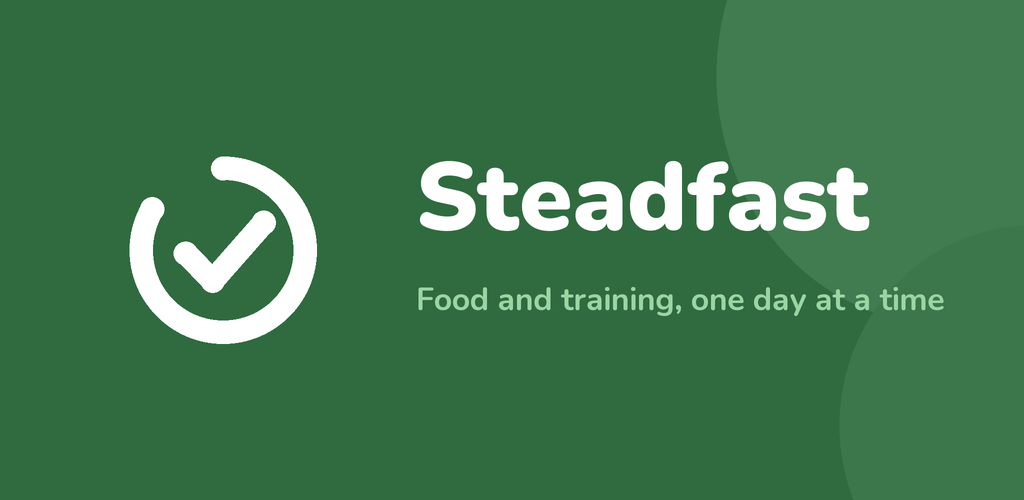
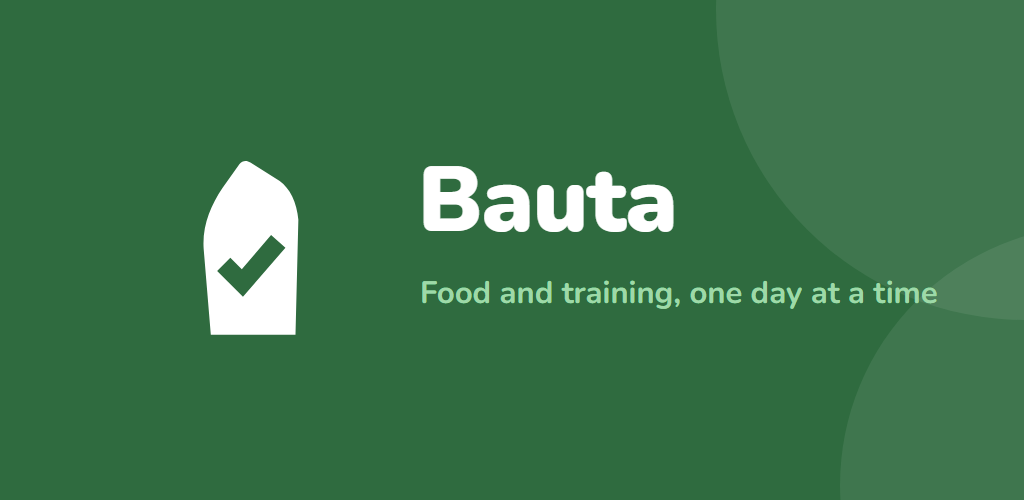
Bauta 1.0 (26): Steadfast heter nu Bauta – ny ikon, nya texter och hur man flyttar sin data

Changed region(s): [[0.4062, 0.3, 0.8438, 0.48], [0.125, 0.3, 0.3125, 0.69], [0.4062, 0.54, 0.9375, 0.63]]

diff --git a/index.html b/index.html
@@ -3,24 +3,24 @@
 <head>
 <meta charset="utf-8">
 <meta name="viewport" content="width=device-width, initial-scale=1">
-<title>Steadfast – gratis app för kost och träning, utan konto | Android</title>
+<title>Bauta – gratis app för kost och träning, utan konto | Android</title>
 <meta name="description" content="Gratis Android-app för att planera måltider och logga träning. Följ din egen plan, en dag i taget. All data stannar på din telefon – inget konto, ingen reklam, ingen spårning.">
-<link rel="canonical" href="https://kakelakel.github.io/steadfast-app/">
+<link rel="canonical" href="https://kakelakel.github.io/bauta-app/">
 <link rel="icon" href="bilder/ikon.png">
 <meta name="theme-color" content="#2E6B3E">
 <meta property="og:type" content="website">
-<meta property="og:site_name" content="Steadfast">
-<meta property="og:title" content="Steadfast – kost och träning, en dag i taget">
+<meta property="og:site_name" content="Bauta">
+<meta property="og:title" content="Bauta – kost och träning, en dag i taget">
 <meta property="og:description" content="Gratis Android-app för din egen plan för mat och träning. Inget konto, ingen reklam, ingen spårning – allt stannar i telefonen.">
-<meta property="og:url" content="https://kakelakel.github.io/steadfast-app/">
-<meta property="og:image" content="https://kakelakel.github.io/steadfast-app/bilder/omslag.png">
+<meta property="og:url" content="https://kakelakel.github.io/bauta-app/">
+<meta property="og:image" content="https://kakelakel.github.io/bauta-app/bilder/omslag.png">
 <meta property="og:image:width" content="1024">
 <meta property="og:image:height" content="500">
 <meta property="og:locale" content="sv_SE">
 <meta property="og:locale:alternate" content="en_US">
 <meta name="twitter:card" content="summary_large_image">
 <script type="application/ld+json">
-{"@context":"https://schema.org","@type":"MobileApplication","name":"Steadfast","operatingSystem":"Android 8.0+","applicationCategory":"HealthApplication","inLanguage":["sv","en"],"offers":{"@type":"Offer","price":"0","priceCurrency":"SEK"},"url":"https://kakelakel.github.io/steadfast-app/","downloadUrl":"https://github.com/kakelakel/steadfast-app/releases/latest","image":"https://kakelakel.github.io/steadfast-app/bilder/ikon.png","description":"Följ din egen plan för kost och träning, en dag i taget. Inget konto, ingen reklam, ingen spårning."}
+{"@context":"https://schema.org","@type":"MobileApplication","name":"Bauta","operatingSystem":"Android 8.0+","applicationCategory":"HealthApplication","inLanguage":["sv","en"],"offers":{"@type":"Offer","price":"0","priceCurrency":"SEK"},"url":"https://kakelakel.github.io/bauta-app/","downloadUrl":"https://github.com/kakelakel/bauta-app/releases/latest","image":"https://kakelakel.github.io/bauta-app/bilder/ikon.png","description":"Följ din egen plan för kost och träning, en dag i taget. Inget konto, ingen reklam, ingen spårning."}
 </script>
 <link rel="preload" href="fonts/atkinson-hyperlegible-latin-700-normal.woff2" as="font" type="font/woff2" crossorigin>
 <style>
@@ -150,7 +150,7 @@
 
 <div class="wrap">
 <header class="top">
-  <a class="brand" href="./"><img src="bilder/ikon.png" alt="">Steadfast</a>
+  <a class="brand" href="./"><img src="bilder/ikon.png" alt="">Bauta</a>
   <nav><a href="#en" hreflang="en">English</a></nav>
 </header>
 
@@ -159,12 +159,12 @@
   <div class="hero">
     <div>
       <h1>Din plan.<br>En dag i taget.</h1>
-      <p class="lead">Steadfast hjälper dig att hålla fast vid måltider, rutiner och träning du själv har valt. Ingen diet, och ingen som säger vad du ska äta.</p>
+      <p class="lead">Bauta hjälper dig att hålla fast vid måltider, rutiner och träning du själv har valt. Ingen diet, och ingen som säger vad du ska äta.</p>
       <div class="cta">
-        <a class="button" href="https://github.com/kakelakel/steadfast-app/releases/latest/download/steadfast.apk"><svg aria-hidden="true"><use href="#down"/></svg>Ladda ner för Android</a>
+        <a class="button" href="https://github.com/kakelakel/bauta-app/releases/latest/download/bauta.apk"><svg aria-hidden="true"><use href="#down"/></svg>Ladda ner för Android</a>
         <a href="#ladda-ner">Så installerar du</a>
       </div>
-      <p class="meta" data-release="sv">Version 1.0 (25) · för Android 8 och senare · 5,3 MB. Gratis.</p>
+      <p class="meta" data-release="sv">Version 1.0 (26) · för Android 8 och senare · 9,7 MB. Gratis.</p>
 
       <div class="week" aria-label="Exempel på en vecka i appen">
         <ol class="days">
@@ -211,9 +211,9 @@
   <h2 id="ladda-ner">Ladda ner</h2>
   <div class="get">
     <div class="panel primary">
-      <p style="margin:0 0 6px"><a class="button" href="https://github.com/kakelakel/steadfast-app/releases/latest/download/steadfast.apk"><svg aria-hidden="true"><use href="#down"/></svg>Ladda ner Steadfast</a></p>
-      <p class="meta" data-release="sv">Version 1.0 (25) · för Android 8 och senare · 5,3 MB.</p>
-      <p class="meta"><a href="changelog/">Vad är nytt? Se versionshistoriken</a></p>
+      <p style="margin:0 0 6px"><a class="button" href="https://github.com/kakelakel/bauta-app/releases/latest/download/bauta.apk"><svg aria-hidden="true"><use href="#down"/></svg>Ladda ner Bauta</a></p>
+      <p class="meta" data-release="sv">Version 1.0 (26) · för Android 8 och senare · 9,7 MB.</p>
+      <p class="meta"><a href="changelog/">Vad är nytt? Se versionshistoriken</a> · <strong>Hade du Steadfast?</strong> Appen heter nu Bauta – <a href="changelog/">så flyttar du din data</a>.</p>
       <p class="muted" data-downloads="sv" hidden></p>
       <h3 style="margin-top:22px">Så installerar du</h3>
       <ol class="steps">
@@ -224,13 +224,13 @@
         <li>Ny version: ladda ner och installera på samma sätt. Din data ligger kvar.</li>
       </ol>
       <h3 style="margin-top:22px">Få nya versioner automatiskt</h3>
-      <p style="margin:0">Telefonen säger inte till när det kommer en ny version, eftersom Steadfast inte finns i någon appbutik. Med gratisappen <a href="https://github.com/ImranR98/Obtainium">Obtainium</a> får du en notis och uppdaterar med ett tryck: tryck <strong>Lägg till app</strong>, klistra in <code>https://github.com/kakelakel/steadfast-app</code> och tryck <strong>Lägg till</strong>.</p>
+      <p style="margin:0">Telefonen säger inte till när det kommer en ny version, eftersom Bauta inte finns i någon appbutik. Med gratisappen <a href="https://github.com/ImranR98/Obtainium">Obtainium</a> får du en notis och uppdaterar med ett tryck: tryck <strong>Lägg till app</strong>, klistra in <code>https://github.com/kakelakel/bauta-app</code> och tryck <strong>Lägg till</strong>.</p>
     </div>
     <div class="panel" id="sakerhet">
       <h3>Är filen säker?</h3>
-      <p style="margin:0">Det är klokt att vara försiktig med appar utanför Google Play. Så här kan du kontrollera Steadfast:</p>
+      <p style="margin:0">Det är klokt att vara försiktig med appar utanför Google Play. Så här kan du kontrollera Bauta:</p>
       <ul>
-        <li><strong>Ladda bara ner härifrån</strong> eller från <a href="https://github.com/kakelakel/steadfast-app/releases">Releases på GitHub</a>. Steadfast finns inte på andra webbplatser.</li>
+        <li><strong>Ladda bara ner härifrån</strong> eller från <a href="https://github.com/kakelakel/bauta-app/releases">Releases på GitHub</a>. Bauta finns inte på andra webbplatser.</li>
         <li><strong>Kontrollsumma:</strong> varje version har sin SHA-256-summa i versionens text under Releases.</li>
         <li><strong>Signatur:</strong> alla versioner är signerade med samma nyckel. Android vägrar installera en uppdatering med en annan signatur, så en förfalskad fil kan inte ersätta din app. Nyckelns fingeravtryck (SHA-256):
           <code class="fp">10:46:A0:6B:B2:C1:25:EF:F9:24:18:29:5E:C4:73:23:24:24:25:C0:E1:B9:94:86:23:08:D0:B0:FE:85:DF:66</code></li>
@@ -250,13 +250,13 @@
   </div>
 
   <h2>Din integritet</h2>
-  <p class="measure">Allt du skriver in i Steadfast sparas bara på din telefon. Appen har ingen server och skickar aldrig din data någonstans. Läs mer i <a href="privacy/">integritetspolicyn</a>.</p>
-  <p class="measure muted">Steadfast ger inga medicinska råd och ersätter inte vård. Appen är gjord för vuxna, 18 år och äldre.</p>
+  <p class="measure">Allt du skriver in i Bauta sparas bara på din telefon. Appen har ingen server och skickar aldrig din data någonstans. Läs mer i <a href="privacy/">integritetspolicyn</a>.</p>
+  <p class="measure muted">Bauta ger inga medicinska råd och ersätter inte vård. Appen är gjord för vuxna, 18 år och äldre.</p>
 </section>
 
 <section lang="en" id="en">
-  <h2>Steadfast in English</h2>
-  <p class="measure" style="font-size:20px">Steadfast helps you stick to a plan you have chosen yourself – for meals, routines and training. Not a diet, and not an app that tells you what to eat. Available in Swedish and English.</p>
+  <h2>Bauta in English</h2>
+  <p class="measure" style="font-size:20px">Bauta helps you stick to a plan you have chosen yourself – for meals, routines and training. Not a diet, and not an app that tells you what to eat. Available in Swedish and English.</p>
   <p class="measure">Plan meals and tasks, check them off, and follow workouts set by set. Streaks follow one rule: never miss twice in a row. Track water, steps, blood pressure, weight and measurements. Widgets, twelve themes, and a web mode for planning from a computer on your own Wi-Fi.</p>
   <ul class="promises" aria-label="Promises">
     <li><svg aria-hidden="true"><use href="#tick"/></svg>All data stays on your phone</li>
@@ -273,18 +273,18 @@
   </ul>
   <div class="get">
     <div class="panel primary">
-      <p style="margin:0 0 6px"><a class="button" href="https://github.com/kakelakel/steadfast-app/releases/latest/download/steadfast.apk"><svg aria-hidden="true"><use href="#down"/></svg>Download Steadfast</a></p>
-      <p class="meta" data-release="en">Version 1.0 (25) · for Android 8 and later · 5.3 MB.</p>
-      <p class="meta"><a href="changelog/#en">What's new? See the changelog</a></p>
+      <p style="margin:0 0 6px"><a class="button" href="https://github.com/kakelakel/bauta-app/releases/latest/download/bauta.apk"><svg aria-hidden="true"><use href="#down"/></svg>Download Bauta</a></p>
+      <p class="meta" data-release="en">Version 1.0 (26) · for Android 8 and later · 9.7 MB.</p>
+      <p class="meta"><a href="changelog/#en">What's new? See the changelog</a> · <strong>Had Steadfast?</strong> The app is now called Bauta – <a href="changelog/#en">how to move your data</a>.</p>
       <p class="muted" data-downloads="en" hidden></p>
       <p>The app is downloaded as a file directly from here, not from Google Play. When you open it, allow your browser to install apps, then tap Install. Your phone may warn about an unknown app because it doesn't come from Google Play. Updates are installed the same way, and your data is kept.</p>
       <h3 style="margin-top:22px">Get updates automatically</h3>
-      <p style="margin:0">With the free app <a href="https://github.com/ImranR98/Obtainium">Obtainium</a> you get a notification and can update with one tap: tap <strong>Add App</strong>, paste <code>https://github.com/kakelakel/steadfast-app</code> and tap <strong>Add</strong>.</p>
+      <p style="margin:0">With the free app <a href="https://github.com/ImranR98/Obtainium">Obtainium</a> you get a notification and can update with one tap: tap <strong>Add App</strong>, paste <code>https://github.com/kakelakel/bauta-app</code> and tap <strong>Add</strong>.</p>
     </div>
     <div class="panel" id="security">
       <h3>Is the file safe?</h3>
       <ul>
-        <li><strong>Only download from here</strong> or from <a href="https://github.com/kakelakel/steadfast-app/releases">Releases on GitHub</a>. Steadfast is not published anywhere else.</li>
+        <li><strong>Only download from here</strong> or from <a href="https://github.com/kakelakel/bauta-app/releases">Releases on GitHub</a>. Bauta is not published anywhere else.</li>
         <li><strong>Checksum:</strong> each version lists its SHA-256 in its release notes.</li>
         <li><strong>Signature:</strong> every version is signed with the same key, and Android refuses an update with a different signature, so a tampered file can't replace your app. Signing certificate fingerprint (SHA-256):
           <code class="fp">10:46:A0:6B:B2:C1:25:EF:F9:24:18:29:5E:C4:73:23:24:24:25:C0:E1:B9:94:86:23:08:D0:B0:FE:85:DF:66</code></li>
@@ -302,13 +302,13 @@
       </details>
     </div>
   </div>
-  <p class="measure muted" style="margin-top:28px">Everything you enter stays on your phone; the app has no server and never sends your data anywhere. Read the <a href="privacy/#en">privacy policy</a>. Steadfast gives no medical advice and does not replace healthcare. Made for adults aged 18 and over.</p>
+  <p class="measure muted" style="margin-top:28px">Everything you enter stays on your phone; the app has no server and never sends your data anywhere. Read the <a href="privacy/#en">privacy policy</a>. Bauta gives no medical advice and does not replace healthcare. Made for adults aged 18 and over.</p>
 </section>
 </main>
 
 <footer>
-  <p>Kontakt / contact: <a href="mailto:steadfasttheapp@gmail.com">steadfasttheapp@gmail.com</a> · <a href="privacy/">Integritetspolicy / Privacy policy</a> · <a href="changelog/">Nyheter / Changelog</a> · <a href="https://github.com/kakelakel/steadfast-app/blob/main/LICENSE">Villkor / Terms</a></p>
-  <p>© 2026 skaparen av Steadfast. Gratis för privat bruk – får inte spridas vidare, ändras eller säljas utan tillstånd. / Free for personal use – may not be redistributed, modified or sold without permission.</p>
+  <p>Kontakt / contact: <a href="mailto:steadfasttheapp@gmail.com">steadfasttheapp@gmail.com</a> · <a href="privacy/">Integritetspolicy / Privacy policy</a> · <a href="changelog/">Nyheter / Changelog</a> · <a href="https://github.com/kakelakel/bauta-app/blob/main/LICENSE">Villkor / Terms</a></p>
+  <p>© 2026 skaparen av Bauta. Gratis för privat bruk – får inte spridas vidare, ändras eller säljas utan tillstånd. / Free for personal use – may not be redistributed, modified or sold without permission.</p>
   <p>Sidan använder inga kakor och ingen spårning. Senaste versionen hämtas från GitHub, som också är värd för sidan. / This page uses no cookies and no tracking. The latest version info is read from GitHub, which also hosts this page.</p>
 </footer>
 </div>
@@ -319,7 +319,7 @@
    Antalet visas först när det når VISA_FRAN, så att sidan inte skyltar med ett litet tal. */
 (function () {
   var VISA_FRAN = 100;
-  var API = "https://api.github.com/repos/kakelakel/steadfast-app/releases?per_page=100";
+  var API = "https://api.github.com/repos/kakelakel/bauta-app/releases?per_page=100";
   if (!window.fetch) return;
   fetch(API, { headers: { "Accept": "application/vnd.github+json" } })
     .then(function (r) { if (!r.ok) throw new Error(r.status); return r.json(); })
@@ -328,10 +328,10 @@
       if (!list.length) return;
       var total = 0, latest = list[0], apk = null;
       list.forEach(function (r) {
-        (r.assets || []).forEach(function (a) { if (a.name === "steadfast.apk") total += a.download_count; });
+        (r.assets || []).forEach(function (a) { if (a.name === "bauta.apk") total += a.download_count; });
       });
-      (latest.assets || []).forEach(function (a) { if (a.name === "steadfast.apk") apk = a; });
-      var m = /^Steadfast\s+(.+)$/.exec(latest.name || "");
+      (latest.assets || []).forEach(function (a) { if (a.name === "bauta.apk") apk = a; });
+      var m = /^Bauta\s+(.+)$/.exec(latest.name || "");
       var version = m ? m[1] : (latest.tag_name || "").replace(/^v/, "");
       var d = new Date(latest.published_at);
       var mb = apk ? apk.size / 1048576 : null;

diff --git a/changelog/index.html b/changelog/index.html
@@ -3,9 +3,9 @@
 <head>
 <meta charset="utf-8">
 <meta name="viewport" content="width=device-width, initial-scale=1">
-<title>Steadfast – nyheter / changelog</title>
-<meta name="description" content="Vad som är nytt i varje version av Steadfast. / What is new in each version of Steadfast.">
-<link rel="canonical" href="https://kakelakel.github.io/steadfast-app/changelog/">
+<title>Bauta – nyheter / changelog</title>
+<meta name="description" content="Vad som är nytt i varje version av Bauta. / What is new in each version of Bauta.">
+<link rel="canonical" href="https://kakelakel.github.io/bauta-app/changelog/">
 <link rel="icon" href="../bilder/ikon.png">
 <style>
   :root { --bg:#F4F6F1; --fg:#17201A; --muted:#55615A; --accent:#2F6B3F; --line:#DCE2D9; --soft:#E2EEE3; }
@@ -24,14 +24,22 @@
 </head>
 <body>
 <main>
-<nav><a href="../">← Steadfast</a><a href="#sv">Svenska</a><a href="#en">English</a></nav>
+<nav><a href="../">← Bauta</a><a href="#sv">Svenska</a><a href="#en">English</a></nav>
 
 <!-- Ny version: lägg den överst i båda språken, med datum och vad som är nytt (B250). -->
 <section id="sv" lang="sv">
-<h1>Nyheter i Steadfast</h1>
+<h1>Nyheter i Bauta</h1>
 <p class="meta">Vad som är nytt i varje version. Ladda ner den senaste på <a href="../">startsidan</a>; en ny version installeras ovanpå den gamla och din data ligger kvar.</p>
 
-<h2>Version 1.0 (25) <span class="tag">Senaste</span></h2>
+<h2>Version 1.0 (26) <span class="tag">Senaste</span></h2>
+<p class="meta">15 oktober 2026</p>
+<ul>
+<li><strong>Steadfast heter nu Bauta.</strong> Det fanns redan en annan träningsapp med namnet Steadfast. En bautasten står stadigt i tusen år – precis som en plan man håller fast vid.</li>
+<li>Ny ikon: en bautasten med en inhuggen bock.</li>
+<li><strong>Bauta installeras som en ny app.</strong> Flytta din data så här: öppna Steadfast → Inställningar → Säkerhetskopiering → Exportera. Installera Bauta, välj Hoppa över i startguiden, och gå till Inställningar → Säkerhetskopiering → Importera och välj filen. Kontrollera att allt finns med, och avinstallera sedan Steadfast. Allt sker i telefonen.</li>
+</ul>
+
+<h2>Version 1.0 (25) </h2>
 <p class="meta">15 oktober 2026</p>
 <ul>
 <li><strong>61 nya övningar</strong>, 182 totalt: calisthenics med lättare och svårare varianter, förebyggande övningar för axlar, knän och höfter, och rörlighet.</li>
@@ -64,10 +72,18 @@
 <hr>
 
 <section id="en" lang="en">
-<h1>What's new in Steadfast</h1>
+<h1>What's new in Bauta</h1>
 <p class="meta">What is new in each version. Download the latest on the <a href="../#en">home page</a>; a new version installs on top of the old one and your data stays.</p>
 
-<h2>Version 1.0 (25) <span class="tag">Latest</span></h2>
+<h2>Version 1.0 (26) <span class="tag">Latest</span></h2>
+<p class="meta">15 October 2026</p>
+<ul>
+<li><strong>Steadfast is now called Bauta.</strong> Another fitness app already used the name Steadfast. A bauta stone stands firm for a thousand years – just like a plan you stick to.</li>
+<li>New icon: a standing stone with a carved check mark.</li>
+<li><strong>Bauta installs as a new app.</strong> Move your data like this: open Steadfast → Settings → Backup → Export. Install Bauta, choose Skip in the setup guide, then go to Settings → Backup → Import and pick the file. Check that everything is there, then uninstall Steadfast. Everything happens on your phone.</li>
+</ul>
+
+<h2>Version 1.0 (25) </h2>
 <p class="meta">15 October 2026</p>
 <ul>
 <li><strong>61 new exercises</strong>, 182 in total: calisthenics with easier and harder variations, preventive exercises for shoulders, knees and hips, and mobility.</li>

diff --git a/privacy/index.html b/privacy/index.html
@@ -3,7 +3,7 @@
 <head>
 <meta charset="utf-8">
 <meta name="viewport" content="width=device-width, initial-scale=1">
-<title>Steadfast – integritetspolicy / privacy policy</title>
+<title>Bauta – integritetspolicy / privacy policy</title>
 <style>
   :root { --bg:#F4F6F1; --fg:#17201A; --muted:#55615A; --accent:#2F6B3F; --line:#DCE2D9; }
   @media (prefers-color-scheme: dark) { :root { --bg:#0F1411; --fg:#E4EAE3; --muted:#9DAAA1; --accent:#9CD5A4; --line:#2A352E; } }
@@ -19,11 +19,11 @@
 <nav><a href="#sv">Svenska</a><a href="#en">English</a></nav>
 
 <section id="sv" lang="sv">
-<h1>Integritetspolicy för Steadfast</h1>
+<h1>Integritetspolicy för Bauta</h1>
 <p class="meta">Gäller från 10 oktober 2026.</p>
 
 <h2>Kort sagt</h2>
-<p>Steadfast samlar inte in några uppgifter om dig. All data som du skriver in i appen – planering, avbockningar, mått, vikt, bilder, träningspass och inställningar – sparas bara på din egen telefon. Appen har ingen server, inget konto, ingen reklam och ingen analys- eller spårningsteknik.</p>
+<p>Bauta samlar inte in några uppgifter om dig. All data som du skriver in i appen – planering, avbockningar, mått, vikt, bilder, träningspass och inställningar – sparas bara på din egen telefon. Appen har ingen server, inget konto, ingen reklam och ingen analys- eller spårningsteknik.</p>
 
 <h2>Vad som sparas och var</h2>
 <ul>
@@ -61,7 +61,7 @@
 <p>Eftersom all data bara finns på din telefon tar du bort den genom att avinstallera appen eller rensa appens data i telefonens inställningar. Det finns ingen kopia hos oss.</p>
 
 <h2>Ålder</h2>
-<p>Steadfast är gjord för personer som är 18 år eller äldre.</p>
+<p>Bauta är gjord för personer som är 18 år eller äldre.</p>
 
 <h2>Hälsa</h2>
 <p>Appen ger inga medicinska råd och ersätter inte vård. Uppgifter om kost och vikt används bara i appen för att visa din egen plan och dina framsteg.</p>
@@ -76,11 +76,11 @@
 <hr>
 
 <section id="en" lang="en">
-<h1>Privacy policy for Steadfast</h1>
+<h1>Privacy policy for Bauta</h1>
 <p class="meta">Effective from 10 October 2026.</p>
 
 <h2>In short</h2>
-<p>Steadfast does not collect any data about you. Everything you enter in the app – planning, check-offs, measurements, weight, photos, workouts and settings – is stored only on your own phone. The app has no server, no account, no ads and no analytics or tracking technology.</p>
+<p>Bauta does not collect any data about you. Everything you enter in the app – planning, check-offs, measurements, weight, photos, workouts and settings – is stored only on your own phone. The app has no server, no account, no ads and no analytics or tracking technology.</p>
 
 <h2>What is stored and where</h2>
 <ul>
@@ -118,7 +118,7 @@
 <p>Since all data exists only on your phone, you delete it by uninstalling the app or clearing the app's data in the phone's settings. There is no copy with us.</p>
 
 <h2>Age</h2>
-<p>Steadfast is made for people aged 18 or older.</p>
+<p>Bauta is made for people aged 18 or older.</p>
 
 <h2>Health</h2>
 <p>The app gives no medical advice and does not replace healthcare. Information about food and weight is used only in the app to show your own plan and progress.</p>

diff --git a/README.md b/README.md
@@ -1,13 +1,13 @@
-<p align="center"><img src="bilder/ikon.png" width="96" alt="Steadfast"></p>
+<p align="center"><img src="bilder/ikon.png" width="96" alt="Bauta"></p>
 
-<h1 align="center">Steadfast</h1>
+<h1 align="center">Bauta</h1>
 <p align="center"><b>Kost och träning, en dag i taget · Food and training, one day at a time</b><br>
 Gratis Android-app · Free Android app · Inget konto · No account · Ingen reklam · No ads · Ingen spårning · No tracking</p>
 
 <p align="center">
-<a href="https://github.com/kakelakel/steadfast-app/releases/latest"><b>⬇ Ladda ner / Download</b></a> ·
-<a href="https://kakelakel.github.io/steadfast-app/">Webbsida / Website</a> ·
-<a href="https://kakelakel.github.io/steadfast-app/privacy/">Integritet / Privacy</a>
+<a href="https://github.com/kakelakel/bauta-app/releases/latest"><b>⬇ Ladda ner / Download</b></a> ·
+<a href="https://kakelakel.github.io/bauta-app/">Webbsida / Website</a> ·
+<a href="https://kakelakel.github.io/bauta-app/privacy/">Integritet / Privacy</a>
 </p>
 
 <p align="center">
@@ -19,7 +19,7 @@ Gratis Android-app · Free Android app · Inget konto · No account · Ingen rek
 
 ## Svenska
 
-Steadfast hjälper dig att hålla fast vid en plan du själv har valt – för måltider, rutiner och träning. Inte en diet, och ingen app som säger vad du ska äta.
+Bauta hjälper dig att hålla fast vid en plan du själv har valt – för måltider, rutiner och träning. Inte en diet, och ingen app som säger vad du ska äta.
 
 - **Kost:** planera veckan med dagtyper, måltider och tider. Bocka av, eller flytta 30 minuter direkt i notisen. Näringsvärden från Livsmedelsverket.
 - **Träning:** pass och program, över 120 övningar, set för set med vilotimer och personbästa.
@@ -27,16 +27,16 @@ Steadfast hjälper dig att hålla fast vid en plan du själv har valt – för m
 - **Vardagen:** vatten, steg, vikt, mått och blodtryck. Widgetar och tolv teman.
 - **Din data är din:** allt sparas bara i telefonen. Export och daglig säkerhetskopia till en mapp du väljer.
 
-**Installera:** ladda ner `steadfast.apk` från [senaste versionen](https://github.com/kakelakel/steadfast-app/releases/latest) på telefonen, tillåt webbläsaren att installera appar och tryck Installera. Android 8 eller senare.
+**Installera:** ladda ner `bauta.apk` från [senaste versionen](https://github.com/kakelakel/bauta-app/releases/latest) på telefonen, tillåt webbläsaren att installera appar och tryck Installera. Android 8 eller senare.
 
-**Uppdateringar automatiskt:** lägg till `https://github.com/kakelakel/steadfast-app` i [Obtainium](https://github.com/ImranR98/Obtainium).
+**Uppdateringar automatiskt:** lägg till `https://github.com/kakelakel/bauta-app` i [Obtainium](https://github.com/ImranR98/Obtainium).
 
 **Kontrollera filen:** varje version har sin SHA-256 i versionens text. Alla versioner är signerade med samma nyckel, fingeravtryck (SHA-256):
 `10:46:A0:6B:B2:C1:25:EF:F9:24:18:29:5E:C4:73:23:24:24:25:C0:E1:B9:94:86:23:08:D0:B0:FE:85:DF:66`
 
 ## English
 
-Steadfast helps you stick to a plan you chose yourself – for meals, routines and training. Not a diet, and not an app that tells you what to eat. Available in Swedish and English.
+Bauta helps you stick to a plan you chose yourself – for meals, routines and training. Not a diet, and not an app that tells you what to eat. Available in Swedish and English.
 
 - **Nutrition:** plan your week with day types, meals and times. Check off, or move 30 minutes straight from the notification. Nutrition data from the Swedish Food Agency.
 - **Training:** workouts and programs, 120+ exercises, set by set with rest timer and personal bests.
@@ -44,17 +44,17 @@ Steadfast helps you stick to a plan you chose yourself – for meals, routines a
 - **Everyday:** water, steps, weight, measurements and blood pressure. Widgets and twelve themes.
 - **Your data is yours:** everything stays on your phone. Export and daily backup to a folder you choose.
 
-**Install:** download `steadfast.apk` from the [latest release](https://github.com/kakelakel/steadfast-app/releases/latest) on your phone, allow your browser to install apps, and tap Install. Android 8 or later.
+**Install:** download `bauta.apk` from the [latest release](https://github.com/kakelakel/bauta-app/releases/latest) on your phone, allow your browser to install apps, and tap Install. Android 8 or later.
 
-**Automatic updates:** add `https://github.com/kakelakel/steadfast-app` in [Obtainium](https://github.com/ImranR98/Obtainium).
+**Automatic updates:** add `https://github.com/kakelakel/bauta-app` in [Obtainium](https://github.com/ImranR98/Obtainium).
 
 **Verify the file:** each release lists its SHA-256. All versions are signed with the same key – certificate fingerprint above.
 
 ---
 
-Steadfast är gratis att använda men inte öppen källkod. Den ger inga medicinska råd och är gjord för vuxna, 18 år och äldre.
-Steadfast is free to use but not open source. It gives no medical advice and is made for adults aged 18 and over.
+Bauta är gratis att använda men inte öppen källkod. Den ger inga medicinska råd och är gjord för vuxna, 18 år och äldre.
+Bauta is free to use but not open source. It gives no medical advice and is made for adults aged 18 and over.
 
-© 2026 skaparen av Steadfast. Gratis för privat bruk – se [villkoren](LICENSE). / Free for personal use – see the [terms](LICENSE).
+© 2026 skaparen av Bauta. Gratis för privat bruk – se [villkoren](LICENSE). / Free for personal use – see the [terms](LICENSE).
 
 Kontakt / contact: [steadfasttheapp@gmail.com](mailto:steadfasttheapp@gmail.com)
